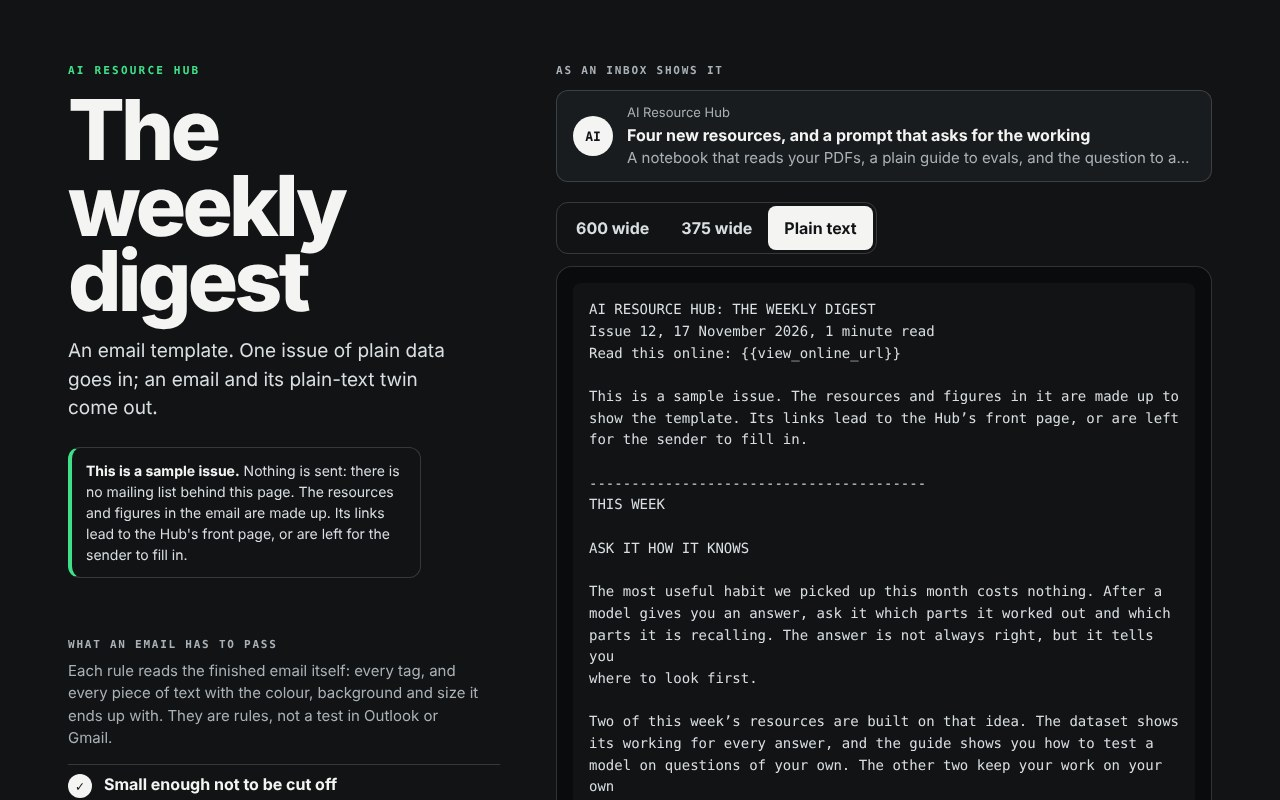
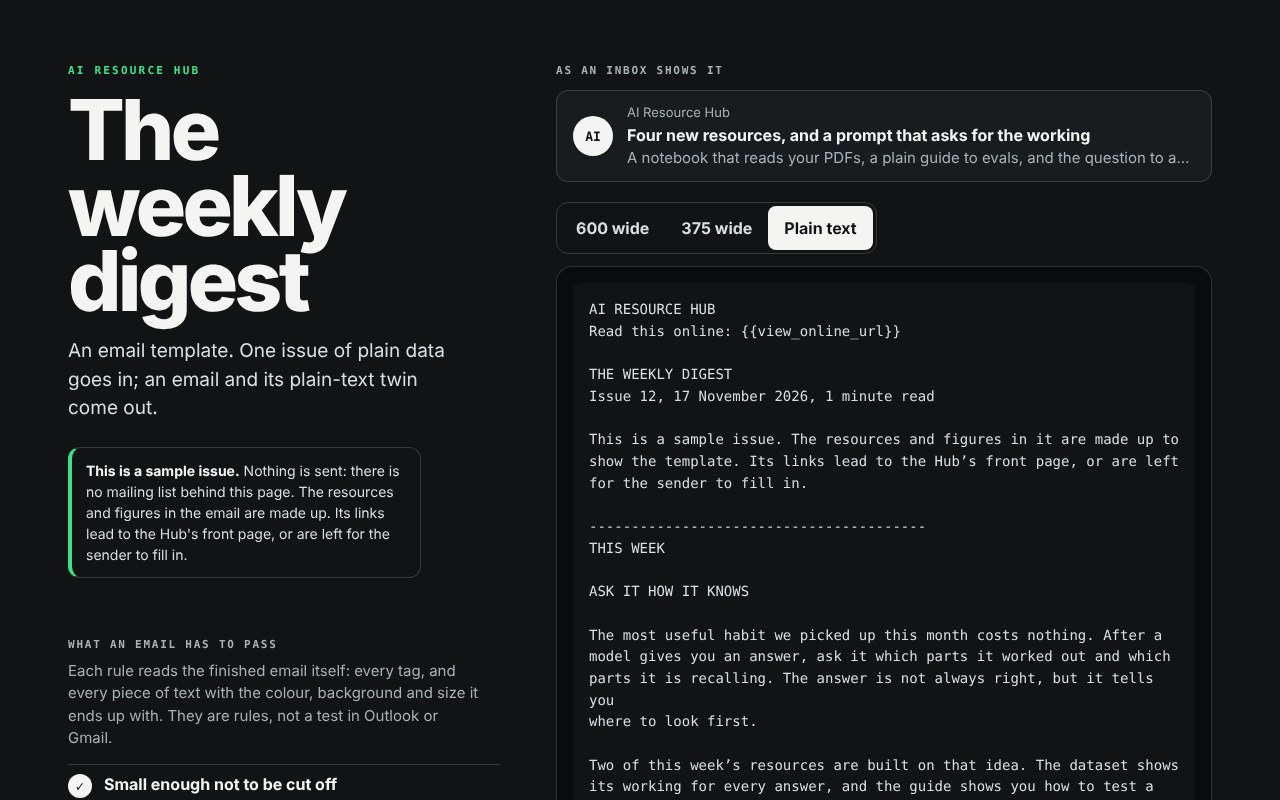
Weekly digest: copy the email as made, not the page the website re-tags
Acts on the second-family test review.

- The website adds lines of its own to every page when it is built, and
  the preview read the email from that page: Copy the HTML would have
  handed over the site's security policy and referrer rule as part of
  the email (22,467 bytes served against 21,984 made). The email is now
  also written to email.html.txt, which the build leaves alone, and the
  page copies, checks and counts that. The noindex line is no longer in
  the email itself; it is added only to the page.
- New built.test.mjs: after a real build, the files a visitor takes are
  the email byte for byte, and the page differs by three web lines only.
- Three faults that got past the 14 checks are now caught: the plain
  text out of order, a colour changed or text hidden by the style block,
  and the Outlook-only table at the wrong width. 81 faults by hand.
- The plain text follows the email's order.

Claude-Session: https://claude.ai/code/session_013B6jEDQfd86RBiChYmYX6U

Changed region(s): [[0.4375, 0.7188, 0.9062, 1.0], [0.4688, 0.375, 0.9062, 0.6875]]

diff --git a/demos/hub-digest/js/email.js b/demos/hub-digest/js/email.js
@@ -71,7 +71,6 @@ export function html(issue) { validate(issue); const when = longDate(issue.date)
 <meta name="color-scheme" content="dark light">
 <meta name="supported-color-schemes" content="dark light">
 <meta name="format-detection" content="telephone=no,date=no,address=no,email=no">
-<meta name="robots" content="noindex">
 <title>${esc(issue.subject)}</title>
 <!--[if mso]><noscript><xml><o:OfficeDocumentSettings><o:PixelsPerInch>96</o:PixelsPerInch></o:OfficeDocumentSettings></xml></noscript><![endif]-->
 <style>
@@ -102,15 +101,17 @@ ${table(rows.join('\n'), 'width="100%" align="center"', `width:100%;max-width:${
 // Lines of 72 characters or fewer. Lines already in the words are kept, and a word too long for a line, as in a language written without spaces, is cut to fit. A link is never cut.
 export const wrap = (s, width = 72) => String(s).split('\n').map(para => { const out = []; let line = ''; for (let w of para.split(/[ \t]+/).filter(Boolean)) { while ([...w].length > width && !isLink(w)) { if (line) { out.push(line); line = ''; } out.push([...w].slice(0, width).join('')); w = [...w].slice(width).join(''); }
   if (line && [...(line + ' ' + w)].length > width) { out.push(line); line = w; } else line = line ? line + ' ' + w : w; } if (line) out.push(line); return out.join('\n'); }).join('\n');
-export function text(issue) { validate(issue); const bar = '-'.repeat(40), out = ['AI RESOURCE HUB: THE WEEKLY DIGEST', `Issue ${issue.number}, ${longDate(issue.date)}, ${minutes(issue)} minute read`, `Read this online: ${link(TAGS.online)}`, ''];
+export function text(issue) { validate(issue); const bar = '-'.repeat(40), out = ['AI RESOURCE HUB', `Read this online: ${link(TAGS.online)}`, '', 'THE WEEKLY DIGEST', `Issue ${issue.number}, ${longDate(issue.date)}, ${minutes(issue)} minute read`, '']; /* in the order the email has them: its name, the link to read it online, its title, then the issue line */
   if (issue.sample) out.push(wrap('This is a sample issue. The resources and figures in it are made up to show the template. Its links lead to the Hub’s front page, or are left for the sender to fill in.'), '');
   out.push(bar, 'THIS WEEK', '', wrap(issue.lead.title.toUpperCase()), '', ...issue.lead.paragraphs.flatMap(p => [wrap(p), '']));
-  if (issue.resources.length) { out.push(bar, 'NEW ON THE HUB', ''); for (const r of issue.resources) out.push(wrap(`${r.name} (${r.kind})`), wrap(r.what), wrap(`Good for: ${r.goodFor}`), link(r.url), ''); }
+  if (issue.resources.length) { out.push(bar, 'NEW ON THE HUB', ''); for (const r of issue.resources) out.push(wrap(`${r.kind}: ${r.name}`), wrap(r.what), wrap(`Good for: ${r.goodFor}`), link(r.url), ''); }
   if (issue.numbers.length) out.push(bar, 'IN NUMBERS', '', ...issue.numbers.map(n => wrap(`${n.figure} ${n.label}`)), '');
   if (issue.reading.length) { out.push(bar, 'WORTH YOUR TIME', ''); for (const r of issue.reading) out.push(wrap(r.title), wrap(`${r.source}, ${r.minutes} ${r.minutes === 1 ? 'minute' : 'minutes'}`), link(r.url), ''); }
   if (issue.prompt) out.push(bar, wrap(issue.prompt.title.toUpperCase()), '', wrap(issue.prompt.text), '', wrap(issue.prompt.note), '');
   if (issue.button) out.push(bar, wrap(`${issue.button.label}:`), link(issue.button.url), '');
   out.push(bar, wrap('You are getting this because you asked for the weekly digest from AI Resource Hub.'), `Stop these emails: ${link(TAGS.unsubscribe)}`, `AI Resource Hub, ${TAGS.address}`, ''); return out.join('\n'); }
+// The email is also shown as a page on a website, and a page there must say it is not to be listed. That one line is for the web and not for inboxes, so it is not in the email: it is put into the copy that is shown as a page, and nowhere else. What is copied or sent is the email as made.
+export const WEB = '<meta name="robots" content="noindex">\n', forWeb = h => { const at = h.indexOf('<title>'); if (at < 0) throw new Error('the email has no title to put the web line before'); return h.slice(0, at) + WEB + h.slice(at); };
 export const render = issue => { validate(issue); return { subject: issue.subject, preheader: issue.preheader, html: html(issue), text: text(issue) }; };
 
 /* ---- Reading the finished email: its tags, and every piece of text with the colour, the background and the size it ends up with ---- */
@@ -131,7 +132,7 @@ export function read(h) { const toks = tokens(h), tags = [], runs = [], links = 
     if ('color' in st) f.colour = colourOf(st.color); const back = st['background-color'] ?? st.background ?? t.attrs.bgcolor; if (back !== undefined && back !== 'transparent' && back !== 'none') f.bg = colourOf(back);
     if ('font-size' in st) { const px = /^(\d+(?:\.\d+)?)px$/.exec(st['font-size']); f.size = px ? +px[1] : NaN; } if ('font' in st) f.size = NaN; if ('text-transform' in st) f.upper = st['text-transform'] === 'uppercase';
     if (st.display === 'none' || st.visibility === 'hidden' || 'mso-hide' in st || st.opacity === '0' || (st['max-height'] === '0' && st.overflow === 'hidden') || t.attrs.hidden !== undefined) f.hidden = true;
-    tags.push({ tag: t.tag, attrs: t.attrs, style: st, hidden: f.hidden }); if (t.tag === 'a') { f.link = { href: decode(t.attrs.href ?? ''), has: 'href' in t.attrs, text: '', hidden: f.hidden }; links.push(f.link); }
+    f.cls = String(t.attrs.class || '').split(/\s+/).filter(Boolean); tags.push({ tag: t.tag, attrs: t.attrs, style: st, hidden: f.hidden, cls: f.cls, inside: stack.flatMap(x => x.cls || []) }); if (t.tag === 'a') { f.link = { href: decode(t.attrs.href ?? ''), has: 'href' in t.attrs, text: '', hidden: f.hidden }; links.push(f.link); }
     if (out.bodySeen && !out.first) out.first = { frame: f, hidden: f.hidden, text: '' }; if (t.tag === 'body') out.bodySeen = true;
     if (VOID.has(t.tag)) continue; stack.push(f); if (t.tag === 'style' || t.tag === 'title' || t.tag === 'script') raw = t.tag; }
   return out; }
@@ -150,13 +151,25 @@ export function lint(mail) { const h = mail.html, doc = read(h), out = [], add =
   add('Nothing fetched from elsewhere', !some(doc.tags.filter(t => t.tag === 'link' || 'src' in t.attrs || 'srcset' in t.attrs || 'background' in t.attrs)) && !/@import|@font-face|url\s*\(/i.test(styles), 'No web fonts, no style sheets, no tracking pixel.');
   add('Every link is a full, secure address or left for the sender', some(doc.links) && doc.links.every(l => l.has && isLink(l.href) && l.text.trim() && !l.hidden), `${doc.links.length} links, each with words to press.`);
   const stop = doc.links.find(l => l.href === TAGS.unsubscribe); add('A way to stop the emails, and a place for who sent them', stop && !stop.hidden && stop.text.trim() && seen.some(r => r.text.includes(TAGS.address)), 'Both are in the words a reader sees. Whether a send meets the law is for the sender to check.');
-  const tables = has('table'); add('Layout by tables that screen readers skip', some(tables) && tables.every(t => t.attrs.role === 'presentation'), `${tables.length} tables, each marked as layout only.`);
+  /* The part only Outlook reads is inside comments, which the rest of this does not look into: a table of fixed width that holds the column to its width. It has to be there once, be marked as layout, and be the width the email is. */
+  const tables = has('table'), outlook = doc.comments.filter(c => /\[if\s+mso[^\]]*\]>/i.test(c) && /<table\b/i.test(c)).map(c => /<table\b[^>]*>/i.exec(c)[0]), outlookOk = outlook.length === 1 && /\brole\s*=\s*["']?presentation\b/i.test(outlook[0]) && new RegExp(`\\bwidth\\s*=\\s*["']?${LIMITS.width}["']?(?=[\\s>])`, 'i').test(outlook[0]) && doc.comments.filter(c => /^\s*(?:<!--)?\s*\[if\s+mso[^\]]*\]>\s*<\/td>\s*<\/tr>\s*<\/table>/i.test(c)).length === 1;
+  add('Layout by tables that screen readers skip', some(tables) && tables.every(t => t.attrs.role === 'presentation') && outlookOk, outlookOk ? `${tables.length} tables, each marked as layout only, and for Outlook one more, ${LIMITS.width} wide, marked the same.` : `The table that only Outlook reads is missing, is not marked as layout, or is not ${LIMITS.width} wide.`);
   add('No flex, grid or positioning', !/(^|[;{\s])(display\s*:\s*(inline-)?(flex|grid)|position\s*:|float\s*:|gap\s*:|grid-|flex-|inset\s*:)/i.test(styles) && !/\bvar\(|calc\(|clamp\(|min\(|max\(/i.test(styles), 'In the tags and the style block alike. Tables, padding and plain colours are what email programs share.');
   const sized = seen.filter(r => !(r.size >= (r.upper ? LIMITS.label : LIMITS.text))), block = [...doc.style.matchAll(/font-size\s*:\s*([^;}!]+)/gi)].map(m => m[1].trim()), small = seen.filter(r => !r.upper).map(r => r.size).filter(n => n > 0);
   add('Text large enough to read on a phone', some(seen) && !some(sized) && block.every(v => /^\d+(\.\d+)?px$/.test(v) && parseFloat(v) >= LIMITS.text), some(sized) ? `"${sized[0].text.slice(0, 40)}" is ${Number.isNaN(sized[0].size) ? 'given no size in px' : sized[0].size + ' px'}.` : `Every piece of text was measured: ${Math.min(...small)} px or more, and ${LIMITS.label} px for labels in capitals.`);
   const pairs = seen.map(r => ({ r, ratio: r.colour && r.bg && r.colour !== '?' && r.bg !== '?' ? contrast(r.colour, r.bg) : 0 })), worst = pairs.reduce((m, p) => (p.ratio < m.ratio ? p : m), { ratio: Infinity, r: null }), kinds = new Set(pairs.map(p => `${p.r.colour} on ${p.r.bg}`));
-  add('Every piece of text is easy to read against what is behind it', some(pairs) && worst.ratio >= LIMITS.contrast, worst.ratio >= LIMITS.contrast ? `Worked out for each piece of text from its own colour and background: the weakest is ${worst.ratio.toFixed(1)} to 1, and ${LIMITS.contrast} is the mark. ${kinds.size} pairings are used.` : `"${worst.r.text.slice(0, 40)}" is ${worst.ratio ? worst.ratio.toFixed(1) + ' to 1' : 'in a colour this cannot weigh up'}.`);
+  /* A rule in the style block can change a colour after all this has been worked out, or hide something outright. So the block may set a colour only in the two lines kept for Outlook's dark mode, and only to the colour the thing it names already has written on it; and it may not hide anything. */
+  const plain = v => colourOf(String(v ?? '').replace(/!important/g, '').trim()), written = (t, prop) => (prop === 'color' ? plain(t.style.color) : plain(t.style['background-color'] ?? t.style.background ?? t.attrs.bgcolor)), overrides = [];
+  for (const m of doc.style.replace(/\/\*[\s\S]*?\*\//g, '').matchAll(/([^{}]+)\{([^{}]*)\}/g)) { const sel = m[1].trim(), decl = css(m[2]); if (sel.startsWith('@')) continue;
+    if (/^none/.test(decl.display || '') || /^(hidden|collapse)/.test(decl.visibility || '') || ('opacity' in decl && !(parseFloat(decl.opacity) >= 1))) overrides.push(`hides or fades something: ${sel}`); /* display set to flex or grid is the business of another check */
+    for (const prop of ['color', 'background', 'background-color']) { if (!(prop in decl)) continue; const dark = /^\[data-ogs[cb]\]\s+(\.[\w-]+)(?:\s+([a-z0-9]+))?$/i.exec(sel); if (!dark) { overrides.push(`sets a colour outside the dark mode lines: ${sel}`); continue; }
+      const cls = dark[1].slice(1), named = doc.tags.filter(t => (dark[2] ? t.tag === dark[2].toLowerCase() && t.inside.includes(cls) : t.cls.includes(cls))), kind = prop === 'color' ? 'color' : 'background'; if (named.some(t => written(t, kind) !== plain(decl[prop]) || plain(decl[prop]) === '?')) overrides.push(`sets ${sel} to a colour it does not already have`); /* a line that names nothing in this email, as the button's does in an issue with no button, changes nothing */ } }
+  add('Every piece of text is easy to read against what is behind it', some(pairs) && worst.ratio >= LIMITS.contrast && !some(overrides), some(overrides) ? `The style block ${overrides[0]}.` : worst.ratio >= LIMITS.contrast ? `Worked out for each piece of text from its own colour and background: the weakest is ${worst.ratio.toFixed(1)} to 1, and ${LIMITS.contrast} is the mark. ${kinds.size} pairings are used.` : `"${worst.r.text.slice(0, 40)}" is ${worst.ratio ? worst.ratio.toFixed(1) + ' to 1' : 'in a colour this cannot weigh up'}.`);
   const html0 = has('html')[0], art = doc.tags.find(t => t.attrs.role === 'article'); add('The language is said twice, and the title is the subject', html0 && html0.attrs.lang && art && art.attrs.lang === html0.attrs.lang && decode(doc.title) === mail.subject, 'Once on the page and once on the email itself, because webmail throws the first away.');
   const lines = mail.text.split('\n'), long = lines.filter(l => [...l].length > LIMITS.line && !(isLink(l.trim().split(/\s+/).at(-1)) && [...l.trim()].length - [...l.trim().split(/\s+/).at(-1)].length <= 40)), flat = plainWords(mail.text), gone = seen.filter(r => !flat.includes(plainWords(r.text))), lost = doc.links.filter(l => !mail.text.includes(l.href));
-  add('A plain-text version that says the same', !some(long) && !some(gone) && !some(lost), some(gone) ? `"${gone[0].text.slice(0, 40)}" is in the email and not in the plain text.` : `${lines.length} lines. Every piece of text and every link in the email is in it, and no line is over ${LIMITS.line} characters but for a link.`);
+  /* The same words in a different order are not the same email: a name moved beside another's description, or a link put under the wrong heading. So the pieces of text are looked for one after another, each after the one before, and so are the links' addresses; and each link's address must come after its own words and before the next link's words. */
+  let at = 0, muddled = null; for (const r of seen) { const w = plainWords(r.text); if (!w) continue; const k = flat.indexOf(w, at); if (k < 0) { if (flat.includes(w)) muddled = muddled || r.text; continue; } at = k + w.length; }
+  let from = 0, astray = null; const shownLinks = doc.links.filter(l => !l.hidden && l.text.trim()); for (const l of shownLinks) { const k = mail.text.indexOf(l.href, from); if (k < 0) { if (mail.text.includes(l.href)) astray = astray || l.text.trim(); continue; } from = k + l.href.length; }
+  { let cursor = 0; for (const [i, l] of shownLinks.entries()) { const w = plainWords(l.text), k = flat.indexOf(w, cursor), href = plainWords(l.href), next = shownLinks[i + 1] ? flat.indexOf(plainWords(shownLinks[i + 1].text), k < 0 ? cursor : k + w.length) : -1; if (k < 0) continue; const h = flat.indexOf(href, k + w.length); if (href && (h < 0 || (next >= 0 && h > next))) astray = astray || l.text.trim(); cursor = k + w.length; } }
+  add('A plain-text version that says the same', !some(long) && !some(gone) && !some(lost) && !muddled && !astray, some(gone) ? `"${gone[0].text.slice(0, 40)}" is in the email and not in the plain text.` : muddled ? `"${muddled.slice(0, 40)}" is in the plain text, but not where the email has it.` : astray ? `The address for "${astray.slice(0, 40)}" is not with its words in the plain text.` : `${lines.length} lines. Every piece of text and every link in the email is in it, in the same order, each link with its own words, and no line is over ${LIMITS.line} characters but for a link.`);
   return out; }

diff --git a/demos/hub-digest/index.html b/demos/hub-digest/index.html
@@ -78,7 +78,7 @@
     <h2 id="checks-title">What an email has to pass</h2>
     <p class="sub">Each rule reads the finished email itself: every tag, and every piece of text with the colour, background and size it ends up with. They are rules, not a test in Outlook or Gmail.</p>
     <ul id="checks" aria-labelledby="checks-title">
-<!--checks--><li class="ok"><span class="mark" aria-hidden="true">✓</span><span class="what"><b>Small enough not to be cut off</b><span class="sr"> (passes)</span><span class="detail">21.5 KB as written. Gmail cuts an email off above 102.0 KB, and a sending service adds to it.</span></span></li>
+<!--checks--><li class="ok"><span class="mark" aria-hidden="true">✓</span><span class="what"><b>Small enough not to be cut off</b><span class="sr"> (passes)</span><span class="detail">21.4 KB as written. Gmail cuts an email off above 102.0 KB, and a sending service adds to it.</span></span></li>
 <li class="ok"><span class="mark" aria-hidden="true">✓</span><span class="what"><b>A subject that fits an inbox</b><span class="sr"> (passes)</span><span class="detail">58 characters, and 60 is about what a phone shows.</span></span></li>
 <li class="ok"><span class="mark" aria-hidden="true">✓</span><span class="what"><b>A hidden line to follow the subject</b><span class="sr"> (passes)</span><span class="detail">108 characters, first in the email and hidden from the reader, for the inbox to show.</span></span></li>
 <li class="ok"><span class="mark" aria-hidden="true">✓</span><span class="what"><b>No pictures</b><span class="sr"> (passes)</span><span class="detail">Many inboxes hide pictures until asked. There are none, in the tags or the styles.</span></span></li>
@@ -86,17 +86,17 @@
 <li class="ok"><span class="mark" aria-hidden="true">✓</span><span class="what"><b>Nothing fetched from elsewhere</b><span class="sr"> (passes)</span><span class="detail">No web fonts, no style sheets, no tracking pixel.</span></span></li>
 <li class="ok"><span class="mark" aria-hidden="true">✓</span><span class="what"><b>Every link is a full, secure address or left for the sender</b><span class="sr"> (passes)</span><span class="detail">10 links, each with words to press.</span></span></li>
 <li class="ok"><span class="mark" aria-hidden="true">✓</span><span class="what"><b>A way to stop the emails, and a place for who sent them</b><span class="sr"> (passes)</span><span class="detail">Both are in the words a reader sees. Whether a send meets the law is for the sender to check.</span></span></li>
-<li class="ok"><span class="mark" aria-hidden="true">✓</span><span class="what"><b>Layout by tables that screen readers skip</b><span class="sr"> (passes)</span><span class="detail">13 tables, each marked as layout only.</span></span></li>
+<li class="ok"><span class="mark" aria-hidden="true">✓</span><span class="what"><b>Layout by tables that screen readers skip</b><span class="sr"> (passes)</span><span class="detail">13 tables, each marked as layout only, and for Outlook one more, 600 wide, marked the same.</span></span></li>
 <li class="ok"><span class="mark" aria-hidden="true">✓</span><span class="what"><b>No flex, grid or positioning</b><span class="sr"> (passes)</span><span class="detail">In the tags and the style block alike. Tables, padding and plain colours are what email programs share.</span></span></li>
 <li class="ok"><span class="mark" aria-hidden="true">✓</span><span class="what"><b>Text large enough to read on a phone</b><span class="sr"> (passes)</span><span class="detail">Every piece of text was measured: 14 px or more, and 12 px for labels in capitals.</span></span></li>
 <li class="ok"><span class="mark" aria-hidden="true">✓</span><span class="what"><b>Every piece of text is easy to read against what is behind it</b><span class="sr"> (passes)</span><span class="detail">Worked out for each piece of text from its own colour and background: the weakest is 7.9 to 1, and 4.5 is the mark. 9 pairings are used.</span></span></li>
 <li class="ok"><span class="mark" aria-hidden="true">✓</span><span class="what"><b>The language is said twice, and the title is the subject</b><span class="sr"> (passes)</span><span class="detail">Once on the page and once on the email itself, because webmail throws the first away.</span></span></li>
-<li class="ok"><span class="mark" aria-hidden="true">✓</span><span class="what"><b>A plain-text version that says the same</b><span class="sr"> (passes)</span><span class="detail">91 lines. Every piece of text and every link in the email is in it, and no line is over 78 characters but for a link.</span></span></li><!--/checks-->
+<li class="ok"><span class="mark" aria-hidden="true">✓</span><span class="what"><b>A plain-text version that says the same</b><span class="sr"> (passes)</span><span class="detail">93 lines. Every piece of text and every link in the email is in it, in the same order, each link with its own words, and no line is over 78 characters but for a link.</span></span></li><!--/checks-->
     </ul>
     <p id="ran" role="status"></p>
     <h2>Take it</h2>
     <div class="row"><button type="button" class="btn" id="copy-html">Copy the HTML</button><button type="button" class="btn" id="copy-text">Copy the plain text</button></div>
-    <ul class="links"><li><a href="email.html">The email on its own</a></li><li><a href="email.txt">The plain text on its own</a></li></ul>
+    <ul class="links"><li><a href="email.html">The email on its own, as a page</a></li><li><a href="email.html.txt">The email&rsquo;s HTML, exactly as made</a></li><li><a href="email.txt">The plain text on its own</a></li></ul>
     <p class="said" id="said" role="status"></p>
   </div>
 

diff --git a/demos/hub-digest/js/app.js b/demos/hub-digest/js/app.js
@@ -17,8 +17,9 @@ frame.addEventListener('load', () => { tame(); fit(); }); addEventListener('resi
 function show(next) { look = next; stage.dataset.look = next; frame.title = `The email, ${WIDE[next]} wide`; for (const b of document.querySelectorAll('.seg button')) b.setAttribute('aria-pressed', b.dataset.look === next); fit(); }
 for (const b of document.querySelectorAll('.seg button')) b.addEventListener('click', () => show(b.dataset.look));
 
-/* ---- The checks, run again here on the file as it is served ---- */
-async function check() { try { const [h, t] = await Promise.all(['email.html', 'email.txt'].map(f => fetch(f, { cache: 'no-store' }).then(r => { if (!r.ok) throw new Error(`${f}: ${r.status}`); return r.text(); }))), doc = new DOMParser().parseFromString(h, 'text/html');
+/* ---- The checks, run again here on the email as it is served ---- */
+/* The email itself is read from email.html.txt, which the website serves untouched. email.html, shown in the frame, is the same email as a page: the website adds lines of its own to every page it serves, and those must not be copied into an email. */
+async function check() { try { const [h, t] = await Promise.all(['email.html.txt', 'email.txt'].map(f => fetch(f, { cache: 'no-store' }).then(r => { if (!r.ok) throw new Error(`${f}: ${r.status}`); return r.text(); }))), doc = new DOMParser().parseFromString(h, 'text/html');
     mail = { html: h, text: t, subject: doc.title, preheader: doc.body.firstElementChild.textContent.replace(/[ \s]+$/, '') }; results = lint(mail);
     $('checks').replaceChildren(...results.map(c => el('li', { className: c.ok ? 'ok' : 'bad' }, el('span', { className: 'mark', ariaHidden: 'true', textContent: c.ok ? '✓' : '!' }), el('span', { className: 'what' }, el('b', { textContent: c.name }), el('span', { className: 'sr', textContent: c.ok ? ' (passes)' : ' (fails)' }), el('span', { className: 'detail', textContent: c.detail })))));
     document.querySelector('.inbox .subj').textContent = mail.subject; document.querySelector('.inbox .pre').textContent = mail.preheader; $('plain').textContent = t;
@@ -28,7 +29,7 @@ async function check() { try { const [h, t] = await Promise.all(['email.html', '
 /* ---- Copy ---- */
 async function copy(button, what, words) { if (!mail) { $('said').textContent = 'The email file has not been read yet.'; return; } const was = button.textContent;
   try { await navigator.clipboard.writeText(what()); button.textContent = 'Copied'; $('said').textContent = `${words} is copied: ${(bytes(what()) / 1024).toFixed(1)} KB.`; }
-  catch (err) { $('said').textContent = `Copying was not allowed. Use the link below, "${words === 'The HTML' ? 'The email on its own' : 'The plain text on its own'}", and copy it there.`; } setTimeout(() => { button.textContent = was; }, 2000); }
+  catch (err) { $('said').textContent = `Copying was not allowed. Use the link below, "${words === 'The HTML' ? 'The email’s HTML, exactly as made' : 'The plain text on its own'}", and copy it there.`; } setTimeout(() => { button.textContent = was; }, 2000); }
 $('copy-html').addEventListener('click', e => copy(e.currentTarget, () => mail.html, 'The HTML')); $('copy-text').addEventListener('click', e => copy(e.currentTarget, () => mail.text, 'The plain text'));
 
 show('desktop'); const ready = check();

diff --git a/demos/hub-digest/REVIEW.md b/demos/hub-digest/REVIEW.md
@@ -26,7 +26,7 @@ Verified by running. All passed on the code as committed.
 
 - `node demos/hub-digest/tools/email.test.mjs`: pass.
   - The files beside the page are the ones the issue makes. The sample passes all 14 checks.
-  - 65 faults put in by hand on the finished email, several ways for each check, are each caught by the right check and no other. They include the ways the first version of the checks missed.
+  - 81 faults put in by hand on the finished email, several ways for each check, are each caught by the right check and no other. They include the ways the first version of the checks missed.
   - Words that only look like faults pass. Markup in the words is made safe. An issue filled in wrongly, or a link that cannot be sent, stops the build.
   - Parts left out are left out. Japanese, and a name of one very long word, still build. Dates, reading time, wrapping and contrast match values worked out by hand.
 - `node demos/hub-digest/tools/smoke.mjs`: pass, in headless Chromium.
@@ -60,7 +60,7 @@ A second pass by a separate Claude agent (Opus), read-only, given the brief and 
 
 | # | Finding | What was done | Held by |
 |---|---|---|---|
-| 1 | Blocker. Ten of the 14 checks were weaker than their names. Each could be passed by a slightly different fault: small text written with a space, a colour pair never worked out, a script handler in single quotes, a hidden line that was not hidden, a plain text with only the links | The checks were rebuilt. They now take the email apart and work on its tags and on each piece of text with its own colour, background and size. Names say what is tested. Words that only look like faults pass | builder test: 65 faults by hand (64 until one that a comment had swallowed was restored), including the reviewer's |
+| 1 | Blocker. Ten of the 14 checks were weaker than their names. Each could be passed by a slightly different fault: small text written with a space, a colour pair never worked out, a script handler in single quotes, a hidden line that was not hidden, a plain text with only the links | The checks were rebuilt. They now take the email apart and work on its tags and on each piece of text with its own colour, background and size. Names say what is tested. Words that only look like faults pass | builder test: faults by hand (64 at the time; 81 now), including the reviewer's |
 | 2 | Blocker. The button's padding was on the link, which Outlook ignores | Colour and padding were put on the table cell. (That left only the words pressable; the outside review below caught it. The padding is now on the link, and on the cell for Outlook alone) | builder test and browser check of the markup; not seen in Outlook |
 | 3 | Blocker. One very long word, or wide figures, made the email wider than the screen, and empty parts kept their headings | Words wrap. Figures are limited to 7 characters and 2 to 4 in a row, share the width evenly and shrink on a phone. Empty parts are left out. An issue filled in wrongly stops the build | builder test; browser check on five awkward issues at three widths |
 | 4 | Markup gaps for real sending: no exact line heights for Outlook, a padded paragraph, the language only where webmail removes it, the lead story not a heading, no thought for dark mode | Exact line heights throughout. The notice is a table cell. The language and a label are on the email itself. The lead story is a heading. Two lines for Outlook's dark mode. The README lists what a sender still has to do | builder test for the markup; none seen in a client |
@@ -89,6 +89,19 @@ A second, outside review was posted on the pull requests on 18 November 2026: Ch
 | The demo's own tests do not run in the repo's CI | Not done here: CI is shared by the whole site, and changing it is outside this demo's folder | |
 
 The same reviewer, reading other demos, found two places where a comment written part way along a line had swallowed the code after it. Every demo was scanned for that mistake, and this one's rules test had it: one of the faults put in by hand, a link with no words to press, was never tried. It is restored and is caught by the right rule, so the count is 65 faults, not 64.
+
+### Second-family review, 20 November 2026
+
+Codex, a model from a different family, read the code, tests and CI results on 19 November (relayed onto the pull request by another Claude session) and said to keep this in draft. Its test reviewer found two things that mattered.
+
+| Finding | What was done | Held by |
+|---|---|---|
+| The email a visitor would copy from the built website was not the email the builder made. The website adds lines of its own to every page when it is built, and the preview page read the email from that page. A real build confirmed it: 22,467 bytes served against 21,984 made, the extra being the website's security policy and referrer rule. Copy the HTML would have handed those over as part of the email | The email itself is now also written to `email.html.txt`, a file the website leaves alone, and that is what the page copies, checks and counts. `email.html` stays as the page shown in the frame. The one line this demo used to put in the email for the web's sake (`noindex`) is no longer in the email at all: it is added only to the page | `built.test.mjs`, new: after a real build, the two files a visitor takes are the email byte for byte, and the page differs from it by three web lines and nothing else. It fails on one changed byte in either file (tried). The browser check passes against the built site as well as the source |
+| Three faults got past all 14 checks: two resources' names changed over in the plain text; the headline made the colour of the page by a rule in the style block; the table only Outlook reads made 900 wide | True of all three. The plain text is now held to the email's order, each link with its own words. The style block may set a colour only in the two dark mode lines and only to the colour the thing already has, and may hide nothing. The Outlook table must be there once, marked as layout, and 600 wide | builder test: 16 more faults by hand, 81 in all, each caught by the right check and no other |
+| To hold the order, the plain text had to follow the email's | It now gives the name, the link to read online, the title and the issue line in that order, and each resource as "Tool: Lanternfile" where it had "Lanternfile (Tool)" | builder test |
+| No email program has opened it; whether `REVIEW.md` and `proof.jpg` are meant to stay as public files | Still true; for Kol | Kol |
+
+The preview already on the live site, copied there on 18 November by another session, has the first fault: its Copy the HTML gives the retagged page.
 
 ## Provenance
 

diff --git a/demos/hub-digest/README.md b/demos/hub-digest/README.md
@@ -6,7 +6,7 @@ A newsletter template. One issue of plain data goes in; an email and its plain-t
 
 **It has not been opened in an email program.** It was checked against the rules email programs are known to enforce, and looked at in one browser. Outlook, Gmail and Apple Mail have not seen it.
 
-**Quality bar it sets:** an email that is built, not hand-edited: one file of data in, the email and its plain text out, and 14 rules that read the finished email itself, tag by tag and piece of text by piece of text. 65 faults put in by hand, several ways for each rule, are each caught by the right rule.
+**Quality bar it sets:** an email that is built, not hand-edited: one file of data in, the email and its plain text out, and 14 rules that read the finished email itself, tag by tag and piece of text by piece of text. 81 faults put in by hand, several ways for each rule, are each caught by the right rule.
 Use it as the reference for newsletters and any email sent to more than one person.
 
 ## What it does
@@ -24,8 +24,9 @@ Use it as the reference for newsletters and any email sent to more than one pers
 
 - `js/issue.js`: one issue as plain data. This is the only file an editor changes.
 - `js/email.js`: `render()` makes the email and its plain text from an issue; `lint()` checks the result. An issue filled in wrongly, or a link that is not a full, secure address, stops the build and says what is needed. Words are made safe, so the data cannot put markup into the email. No page, so it runs in Node.
-- `tools/build.mjs`: writes `email.html`, `email.txt` and the parts of the preview page that come from the issue. It refuses to write an email that fails a check.
-- `email.html`, `email.txt`: the built email. `email.html` carries one line that is for the web and not for inboxes, a `noindex` mark, because the file is also served as a page here.
+- `tools/build.mjs`: writes `email.html`, `email.html.txt`, `email.txt` and the parts of the preview page that come from the issue. It refuses to write an email that fails a check.
+- `email.html.txt`, `email.txt`: the built email and its plain text, exactly as made. These are what the page copies, checks and counts. The website leaves `.txt` files alone when it is built.
+- `email.html`: the same email as a page to look at in the frame. It carries one line that is for the web and not for inboxes, a `noindex` mark, and the website adds two more of its own when it is built (a security policy and a referrer rule). None of the three is in the email that is copied. `tools/built.test.mjs` holds all of this against a real build.
 - `js/app.js`, `index.html`: the preview page.
 - Three places are left for whatever sends the email to fill in: `{{unsubscribe_url}}`, `{{view_online_url}}` and `{{postal_address}}`.
 - No library, no font or picture file, no outside request.
@@ -51,6 +52,18 @@ After changing the issue, make the email again:
 ```bash
 node demos/hub-digest/tools/build.mjs
 ```
+
+To check the email as the built website serves it, build the site and then compare:
+
+```bash
+python3 scripts/build-site.py
+```
+
+```bash
+node demos/hub-digest/tools/built.test.mjs
+```
+
+The browser check can also be pointed at the built site: serve the `_site` folder and give its address in place of the one above.
 
 The second and third need the site's development packages (Playwright and axe-core, from `npm install` at the site's root) and a Chromium that Playwright can find, or `PW_CHROMIUM` set to one. [REVIEW.md](REVIEW.md) lists what each one proves, what an independent review found and what nobody has checked.
 
